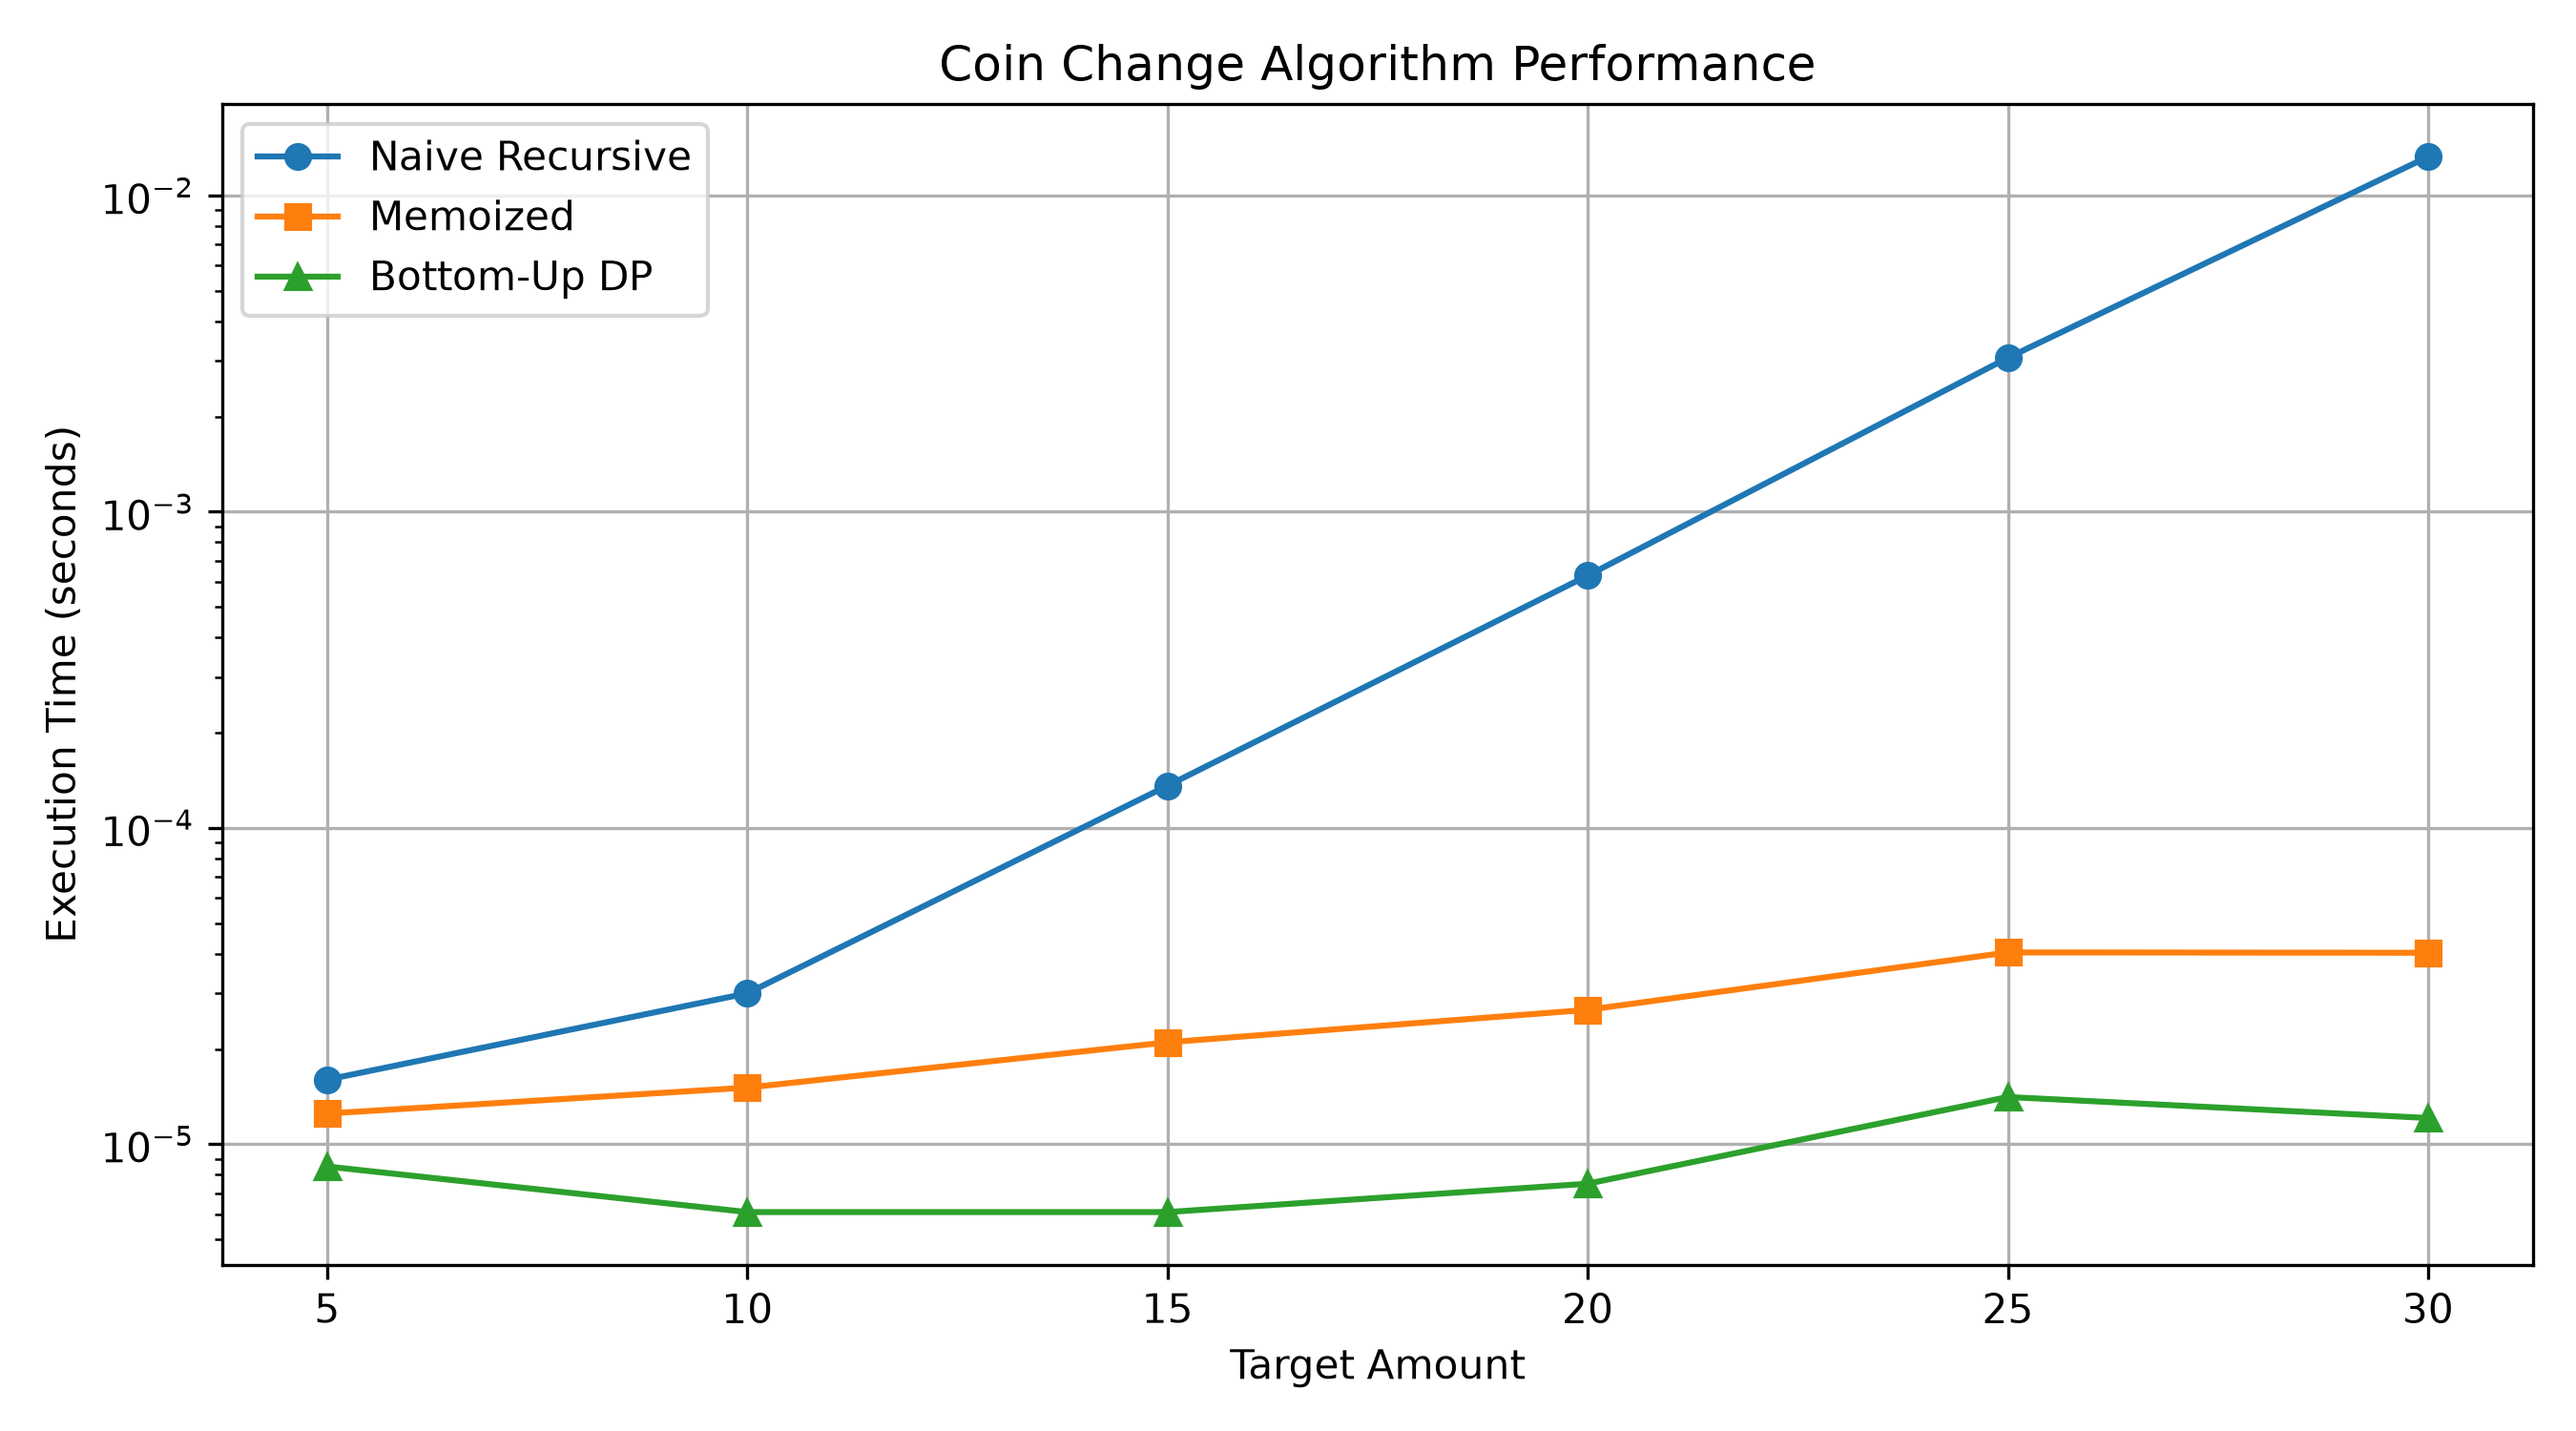
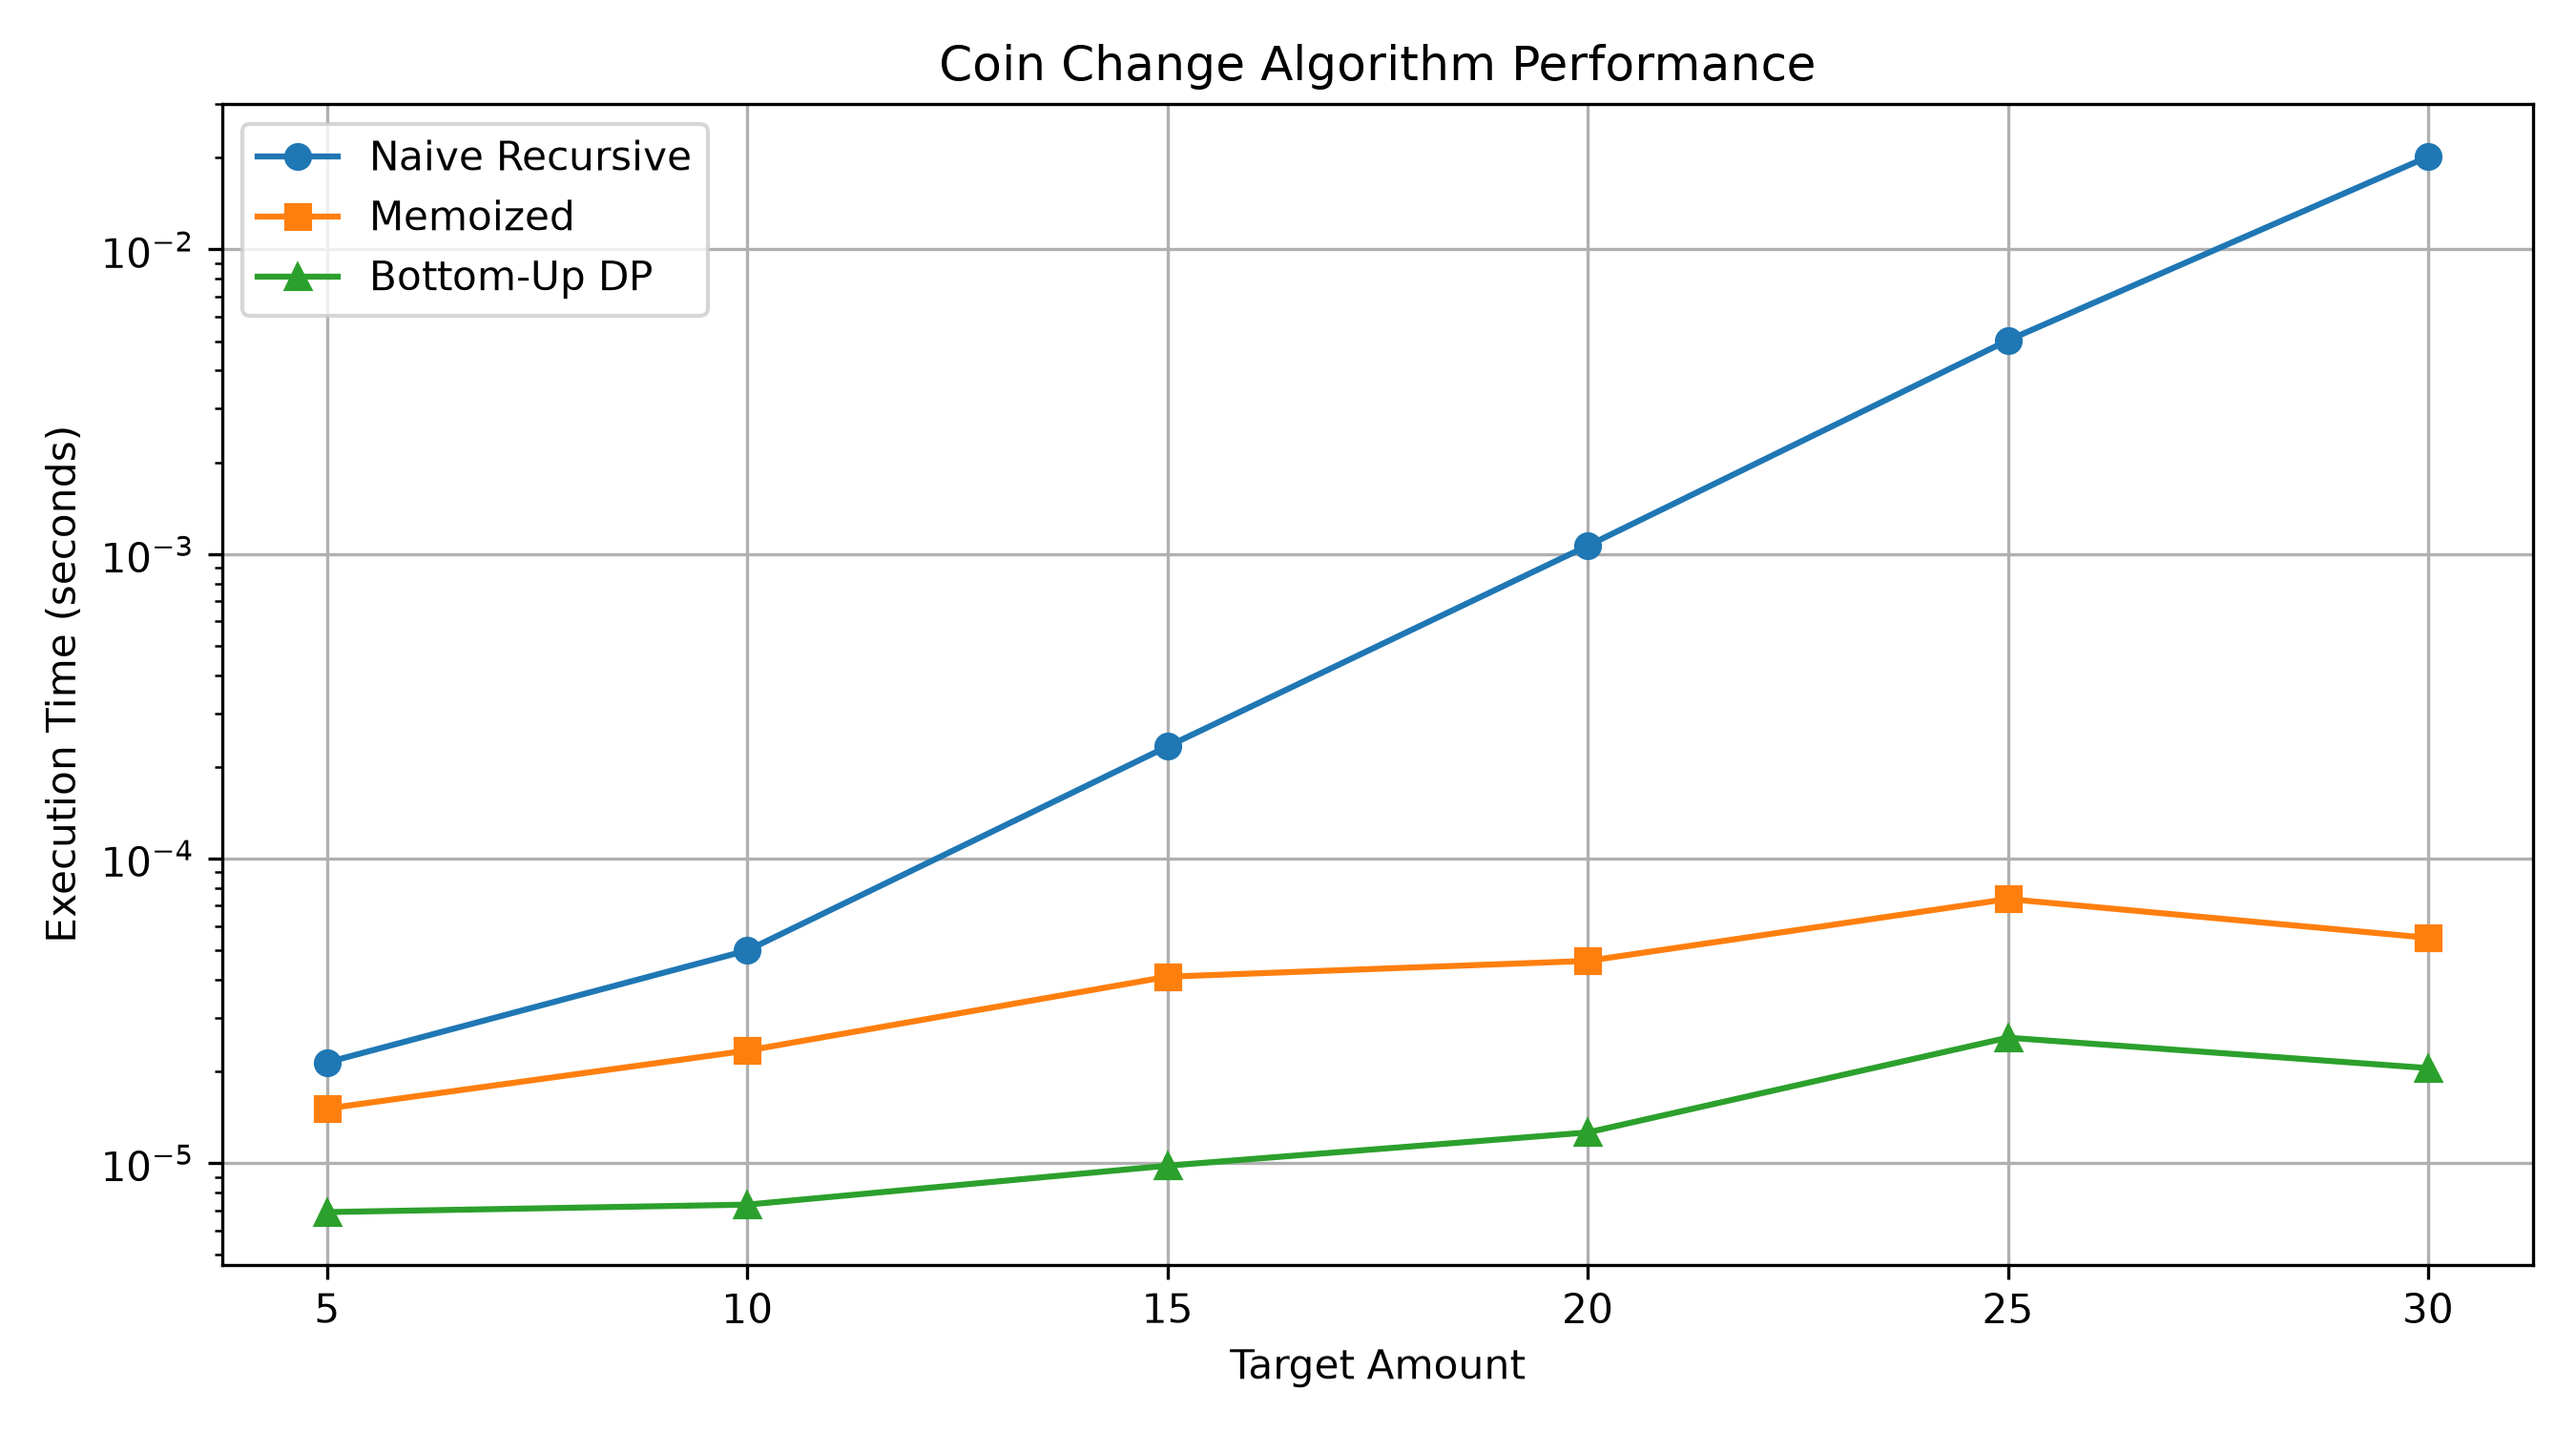
mark down file

diff --git a/empirical_comparison.md b/empirical_comparison.md
@@ -1,0 +1,4 @@
+Isaac Michalek
+Comparing recursive, memoized and Bottum up
+
+The comparison that is obvious in Figure 1 is that the recursive function grows increasily slower very fast as the amount of coins the algorithm has to go through increases. The recursive algortihm is like this because is repeatley solves overlapping subproblems. Memoization works very similar but instead of solving those problems again it keeps those results in a dictionary to save those results that the recursive function would be repeatly solving. The bottom up dynamic function uses a list called dp where dp[i] stores the minimum number of coins needed to make the amount. So if we have a list of [1,5,10,25], the algorithm for every amount from 1 through target it checks each coin and uses the previously remenbered value to find the least amount of coins needed.
